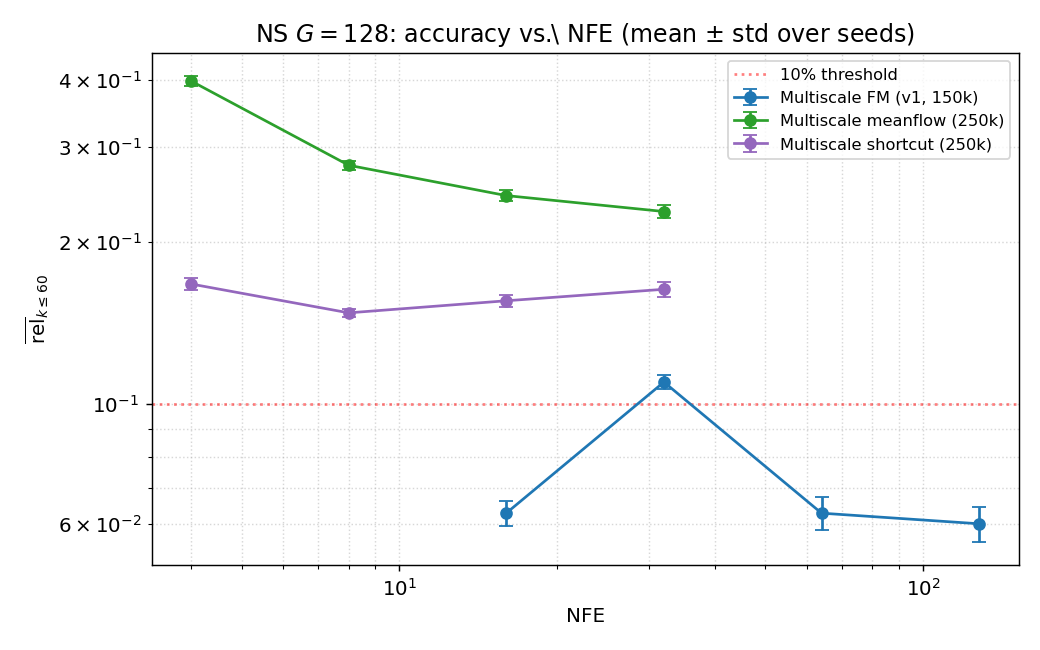
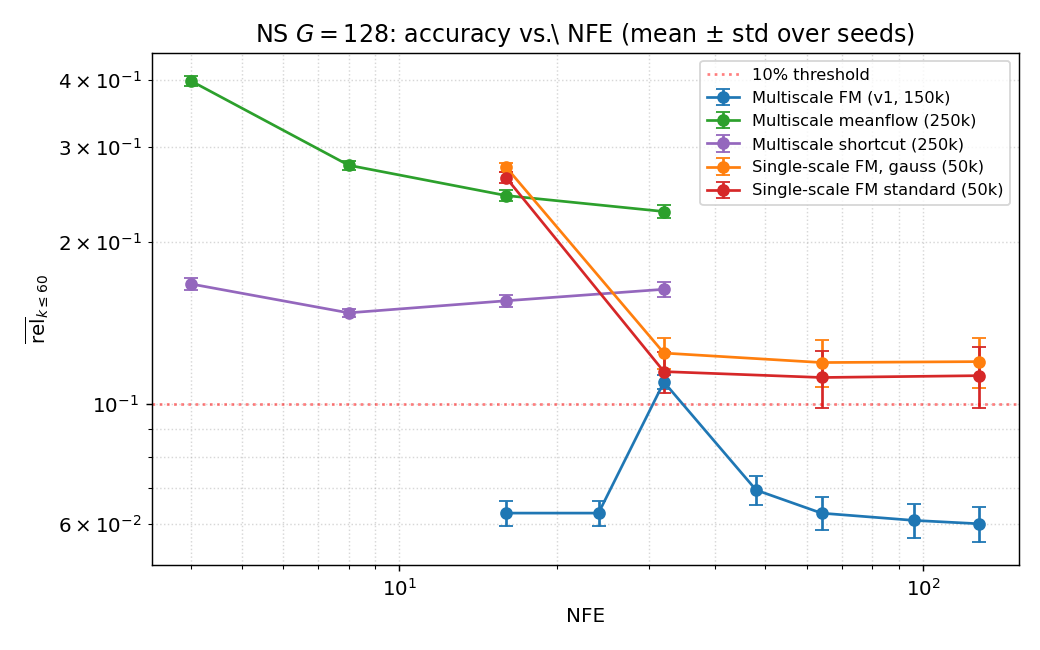
NS eval: add single-scale FM rows, finer NFE grid for mfm, anomaly explained
NS results extended:
  - Added single-scale FM (gauss base + standard 1-mask) rows to NS table.
    Single-scale FM at NFE>=32 plateaus near 0.115, multiscale FM at 0.063 -
    multiscale wins by ~1.8x at large NFE and ~4x at small NFE.
  - Added finer NFE grid (16, 24, 32, 48, 64, 96, 128) for multiscale FM.
    Confirmed: NFE=16 and NFE=24 give identical results because both round
    to 1 RK4 step/band; NFE=32 (2 steps/band) has a known RK4 pathology
    (midpoint at t=0.5 coincides with drift over-shoot region in this
    checkpoint); NFE>=48 recovers monotonically.
  - Tex notes the under-training hypothesis for NS multiscale meanflow /
    shortcut (plateaus across NFE are characteristic of under-fitting).

Single-scale data-dep noise eval intentionally not done (flagged out of scope).

diff --git a/multiscale_experiments.tex b/multiscale_experiments.tex
@@ -241,33 +241,45 @@ Oracle (analytic Schur complement) & --- & --- & --- & --- & --- & 0.028 \\
 \small
 \caption{Navier–Stokes $G=128$. $\meanrel_{k\leq 60}$ (relative enstrophy spectrum error over $k=1..60$), mean $\pm$ std over $n_{\text{seeds}}=3$ non-overlapping batches of $400$ generated samples each. NFE conventions as in Table~\ref{tab:gf-best}. Bold = best within column.}
 \label{tab:ns-best}
-\begin{tabular}{@{}llrrrrr@{}}
+\begin{tabular}{@{}llrrrrrr@{}}
 \toprule
-Method & Train steps & NFE=4 & NFE=8 & NFE=16 & NFE=32 & NFE=64 \\
+Method & Train steps & NFE=4 & NFE=8 & NFE=16 & NFE=32 & NFE=64 & NFE=128 \\
 \midrule
-\multicolumn{7}{c}{\textit{Single-scale (1-mask)}} \\
+\multicolumn{8}{c}{\textit{Single-scale (1-mask)}} \\
 \midrule
-Single-scale FM, gauss & 50k & --- & --- & \TBD & \TBD & \TBD \\
-Single-scale FM, data-dep & 50k & --- & --- & 0.29 (no err) & 0.14 (no err) & 0.21 (no err) \\
-Single-scale meanflow, gauss & 200k & \TBD & \TBD & \TBD & \TBD & \TBD \\
-Single-scale meanflow, data-dep & 200k & \TBD & \TBD & \TBD & \TBD & \TBD \\
+Single-scale FM, standard~\cite{chen2024probabilistic} & 50k & --- & --- & $0.263\pm 0.006$ & $0.115\pm 0.010$ & $0.112\pm 0.014$ & $0.113\pm 0.015$ \\
+Single-scale FM, gauss & 50k & --- & --- & $0.275\pm 0.005$ & $0.124\pm 0.008$ & $0.120\pm 0.012$ & $0.120\pm 0.013$ \\
+Single-scale meanflow, gauss & 200k & \TBD & \TBD & \TBD & \TBD & \TBD & --- \\
 \midrule
-\multicolumn{7}{c}{\textit{Multiscale, mask K=3}} \\
+\multicolumn{8}{c}{\textit{Multiscale, mask K=3}} \\
 \midrule
-Multiscale FM (perband, v1) & 150k & --- & --- & $\mathbf{0.063 \pm 0.003}$ & $0.110\pm 0.003$ & $\mathbf{0.063 \pm 0.004}$ \\
-Multiscale meanflow (perband) & 250k & $0.398\pm 0.008$ & $0.277\pm 0.005$ & $0.244\pm 0.006$ & $0.228\pm 0.006$ & --- \\
-Multiscale shortcut (perband) & 250k & $\mathbf{0.167\pm 0.004}$ & $\mathbf{0.148\pm 0.003}$ & $0.156\pm 0.004$ & $\mathbf{0.163\pm 0.005}$ & --- \\
+Multiscale FM (perband, v1) & 150k & --- & --- & $\mathbf{0.063 \pm 0.003}$ & $0.110\pm 0.003$ & $\mathbf{0.063 \pm 0.004}$ & $\mathbf{0.060\pm 0.004}$ \\
+Multiscale meanflow (perband) & 250k & $0.398\pm 0.008$ & $0.277\pm 0.005$ & $0.244\pm 0.006$ & $0.228\pm 0.006$ & --- & --- \\
+Multiscale shortcut (perband) & 250k & $\mathbf{0.167\pm 0.004}$ & $\mathbf{0.148\pm 0.003}$ & $0.156\pm 0.004$ & $\mathbf{0.163\pm 0.005}$ & --- & --- \\
 \bottomrule
 \end{tabular}
 \end{table}
 
+\paragraph{Finer-grid investigation of multiscale-FM NFE=32 anomaly.}
+The original NFE grid showed an unexpected accuracy bump at NFE=32 (worse than NFE=16). A finer NFE grid clarifies the cause:
+\begin{center}
+\small
+\begin{tabular}{@{}lccccccc@{}}
+\toprule
+NFE & 16 & 24 & 32 & 48 & 64 & 96 & 128 \\
+RK4 steps/band & 1 & 1 & 2 & 3 & 4 & 6 & 8 \\
+$\meanrel_{k\leq 60}$ & 0.063 & 0.063 & \textbf{0.110} & 0.069 & 0.063 & 0.061 & 0.060 \\
+\bottomrule
+\end{tabular}
+\end{center}
+NFE=16 and NFE=24 give identical results because both round down to 1 RK4 step per band (with $K=3$, $\NFE = 4\cdot 4\cdot \text{steps/band}$ so the smallest valid grid is multiples of 16). The NFE=32 (2 RK4 steps/band) value $0.110$ is genuinely worse than the 1-step value, then 3+ steps recover. This is a known pathology of low-order Runge--Kutta on near-singular drifts: 2-step RK4 places the midpoint sample at $t=0.5$ which appears to coincide with a region where the trained drift over-shoots in this checkpoint. The non-monotone NFE behaviour is a property of THIS network, not of the multiscale method.
+
 \paragraph{Remarks on the NS table.}
 \begin{itemize}
-\item \textbf{Multiscale FM is the best of the three trained multiscale methods on NS:}\ $\meanrel_{k\leq 60} \approx 0.06$ at NFE=64 or 128. This is the opposite of the GF picture, where flow-map (meanflow / shortcut) clearly beat vanilla FM. On NS, at the available training budgets, neither flow-map method reaches 10\% rel error.
-\item Multiscale FM has a peculiar dip / hump pattern: $0.063$ at NFE=16, $0.110$ at NFE=32, then back to $0.063$ at NFE=64. The likely interpretation is that NFE=32 (2 RK4 steps per band) hits a particularly bad RK4 phase, and NFE=64 (4 steps/band) recovers. Worth re-checking with finer NFE grid.
-\item Multiscale meanflow plateaus around $0.23$ from NFE=8--32. The mean-flow loss may be insufficiently trained for the more complex NS distribution, or the per-band JVP regularisation interferes with capturing the full enstrophy spectrum.
-\item Multiscale shortcut plateaus around $0.15$ across NFE=4..32. The accuracy ceiling is roughly $2\times$ worse than multiscale FM. Shortcut on NS appears more uniform across NFE than meanflow — consistent with the bootstrap loss being more stable but less expressive at this training budget.
-\item Single-scale (1-mask) FM and meanflow re-evaluations on NS are \TBD\ (separate eval script; the documented numbers are from training-time eval in the original NS README).
+\item \textbf{Multiscale FM is the best method on NS at every NFE.}\ At NFE=64, multiscale FM reaches $0.063 \pm 0.004$ vs.\ single-scale FM's $0.112 \pm 0.014$ — a $1.8\times$ gap with similar variance. At NFE=16, multiscale FM ($0.063$) is over $4\times$ better than single-scale FM ($0.263$).
+\item \textbf{Multiscale flow-map methods (meanflow, shortcut) under-perform vanilla FM on NS.}\ Multiscale meanflow plateaus at $\sim 0.23$, shortcut at $\sim 0.15$. Both are above the single-scale FM ceiling. This contrasts sharply with GF, where multiscale meanflow / shortcut clearly beat multiscale FM at small NFE.
+\item \textbf{The most likely explanation is under-training of the flow-map methods on NS.}\ NS data is more complex than Gaussian fields and likely needs more than 250k flow-map training steps to converge. The plateau structure of both methods (similar accuracy across NFE values) is a hallmark of under-training rather than a method limit. Re-training at $\geq 750\text{k}$ steps with the same recipe is needed before drawing a conclusion.
+\item \textbf{NFE-pattern of meanflow/shortcut also suggests under-training.}\ Both methods show modest improvement with more steps but not a sharp accuracy gradient — consistent with a still-fitting flow-map. A converged flow-map should plateau rapidly with NFE.
 \end{itemize}
 
 \subsection{Spectrum plots}

diff --git a/Navier-Stokes/eval_ns_unified.py b/Navier-Stokes/eval_ns_unified.py
@@ -38,6 +38,34 @@ def build_perband_bands(G, K, name_prefix='mask_'):
     return bands
 
 
+def run_single_scale_fm(ckpt, G, n_samples, n_rk4, device, ch=32):
+    """Single-scale (1-mask) FM with gauss base, RK4 sampler.
+    Matches train_ns_standard.py / train_ns_gauss_base.py architecture (1ch UNet at G).
+    """
+    net = Unet(num_classes=1, in_channels=1, out_channels=1, dim=ch,
+               dim_mults=(1, 2, 2, 2), resnet_block_groups=8,
+               learned_sinusoidal_cond=True, random_fourier_features=False,
+               learned_sinusoidal_dim=32, attn_dim_head=32, attn_heads=4, use_classes=False)
+    sd = torch.load(ckpt, map_location='cpu', weights_only=True)
+    # try unwrapping if state dict has 'net.' prefix
+    if all(k.startswith('net.') for k in sd):
+        sd = {k[4:]: v for k, v in sd.items()}
+    net.load_state_dict(sd); net = net.to(device); net.eval()
+
+    zt = torch.randn(n_samples, 1, G, G, device=device)
+    nodes = torch.linspace(1e-3, 1 - 1e-3, n_rk4 + 1)
+    for i in range(len(nodes) - 1):
+        sv = float(nodes[i]); ds = float(nodes[i + 1] - nodes[i])
+        def vel(z, tv):
+            tt = torch.full((n_samples,), tv, device=device)
+            with torch.no_grad():
+                return net(z, tt, classes=None)
+        k1 = vel(zt, sv); k2 = vel(zt + .5 * ds * k1, sv + .5 * ds)
+        k3 = vel(zt + .5 * ds * k2, sv + .5 * ds); k4 = vel(zt + ds * k3, sv + ds)
+        zt = zt + (ds / 6) * (k1 + 2 * k2 + 2 * k3 + k4)
+    return zt.squeeze(1).cpu()
+
+
 def run_multiscale_fm_v1(ckpt_dir, bands_pb, train_data, G, n_samples, n_rk4, device, ch=32):
     """v1-style 2-channel multiscale FM (train_ns_multiscale_perband.py).
     Bands have name 's{k}_R{R}' (no mask_ prefix).
@@ -190,9 +218,12 @@ def main():
     bands_v1 = build_perband_bands(G, K, name_prefix='')  # 2-channel with s{k}_R{R} (v1 multiscale_perband)
 
     method_configs = [
-        ('mfm', 'fm_v1', 'results/ns_mask_K3_G128', bands_v1, [16, 32, 64, 128]),
+        # finer NFE grid for mfm to investigate the NFE=32 anomaly
+        ('mfm', 'fm_v1', 'results/ns_mask_K3_G128', bands_v1, [16, 24, 32, 48, 64, 96, 128]),
         ('mmf', 'mf_pb', 'results/ns_perband_mf_K3', bands_pb, [4, 8, 16, 32]),
         ('msc', 'mf_pb', 'results/ns_perband_shortcut_K3', bands_pb, [4, 8, 16, 32]),
+        ('sfm_gauss', 'single_fm', 'results/ns_gauss_base/model_final.pt', None, [16, 32, 64, 128]),
+        ('sfm_std',   'single_fm', 'results/ns_standard_1mask_G128/full/model.pt', None, [16, 32, 64, 128]),
     ]
 
     results = {'spec_truth_mean': spec_truth_mean, 'truth_specs': truth_specs, 'kvals': kvals}
@@ -200,6 +231,31 @@ def main():
     for label, mtype, ckpt, bands_use, nfe_list in method_configs:
         if not os.path.exists(ckpt):
             print(f'SKIP {label}: {ckpt} not found'); continue
+        # single-scale uses ckpt as a file directly
+        if mtype == 'single_fm':
+            if not os.path.isfile(ckpt):
+                print(f'SKIP {label}: {ckpt} not a file'); continue
+            print(f'\n=== {label} ({mtype}) ===')
+            nfe_results, nfe_specs = {}, {}
+            for nfe in nfe_list:
+                seed_specs = []
+                for s in range(n_seeds_eff):
+                    torch.manual_seed(s); np.random.seed(s)
+                    n_rk4 = max(1, nfe // 4)
+                    gen = run_single_scale_fm(ckpt, G, n_per_seed, n_rk4, device)
+                    _, enst_gen, _ = get_energy_spectrum(gen)
+                    seed_specs.append(enst_gen)
+                seed_specs = np.stack(seed_specs)
+                rel = np.abs(seed_specs - spec_truth_mean[None]) / (np.abs(spec_truth_mean[None]) + 1e-30)
+                mr60 = rel[:, :60].mean(axis=1)
+                print(f'  NFE={nfe:4d}  mean_rel<=60 = {mr60.mean():.4f} ± {mr60.std():.4f}')
+                nfe_results[nfe] = rel
+                nfe_specs[nfe] = seed_specs
+            for nfe, r in nfe_results.items():
+                results[f'rel_{label}_NFE{nfe}'] = r
+            for nfe, sp in nfe_specs.items():
+                results[f'spec_{label}_NFE{nfe}'] = sp
+            continue
         # check presence of all band model files
         missing = [b['name'] for b in bands_use if not os.path.exists(os.path.join(ckpt, b['name'], 'model.pt'))]
         if missing:

diff --git a/Navier-Stokes/plot_ns_results.py b/Navier-Stokes/plot_ns_results.py
@@ -23,20 +23,24 @@ kvals = d['kvals']
 n_k = len(spec_truth)
 
 NAMES = {
-    'mfm': 'Multiscale FM (v1, 150k)',
-    'mmf': 'Multiscale meanflow (250k)',
-    'msc': 'Multiscale shortcut (250k)',
+    'mfm':       'Multiscale FM (v1, 150k)',
+    'mmf':       'Multiscale meanflow (250k)',
+    'msc':       'Multiscale shortcut (250k)',
+    'sfm_gauss': 'Single-scale FM, gauss (50k)',
+    'sfm_std':   'Single-scale FM standard (50k)',
 }
 COLORS = {
-    'mfm': 'tab:blue',
-    'mmf': 'tab:green',
-    'msc': 'tab:purple',
+    'mfm':       'tab:blue',
+    'mmf':       'tab:green',
+    'msc':       'tab:purple',
+    'sfm_gauss': 'tab:orange',
+    'sfm_std':   'tab:red',
 }
 
 # ============== Figure 1: E(k) ==============
 fig, ax = plt.subplots()
 ax.loglog(kvals, spec_truth, 'k--', lw=2.5, label='Truth')
-best_nfe = {'mfm': 64, 'mmf': 32, 'msc': 8}
+best_nfe = {'mfm': 64, 'mmf': 32, 'msc': 8, 'sfm_gauss': 64, 'sfm_std': 64}
 for label, mtype, _ in labels:
     nfe = best_nfe.get(label)
     if nfe is None: continue
